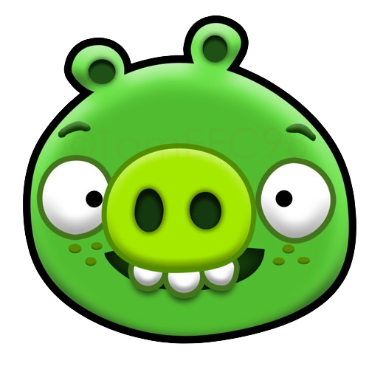
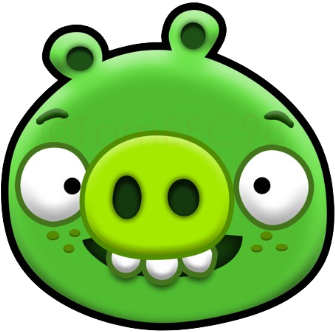
adjusted pig sprite and world2 for playability

diff --git a/World2.java b/World2.java
@@ -32,25 +32,25 @@ public class World2 extends MyWorlds
         }
         */
         
-        addObject(new Pig(24),390,100);
-        addObject(new Pig(24),510,50);
+        addObject(new Pig(20),430,180);
+        addObject(new Pig(20),540,150);
         addObject(new Sling(),100,275);
         
         
         
         
-        addObject(new Rock(20),320,220);
-        addObject(new Rock(20),390,280);
-        addObject(new Rock(20),440,150);
-        addObject(new Rock(20),510,210);
+        addObject(new Rock(20),300,240);
+        addObject(new Rock(20),430,290);
+        addObject(new Rock(20),410,180);
+        addObject(new Rock(20),540,250);
            
         
         for(int i = 0; i<2;i++)
         {
-            addObject(new Wood(20),320,180-30*i);
-            addObject(new Wood(20),390,240-30*i);
-            addObject(new Wood(20),440,110-30*i);
-            addObject(new Wood(20),510,170-30*i);
+            addObject(new Wood(20),300,180-22*i);
+            addObject(new Wood(20),430,240-22*i);
+            addObject(new Wood(20),410,140-22*i);
+            addObject(new Wood(20),540,200-22*i);
         }
     }
     public void act()

diff --git a/Wood.java b/Wood.java
@@ -49,13 +49,13 @@ public class Wood extends Animate
         }
         impartForce();
     
-        velocityY += .1;
+        velocityY += .07;
         //speed += .1;
     
         if(getY() <= 288-(10*Math.sin(Math.abs(Math.toRadians(getRotation()))))&&!getBelow())
             setLocation(getX(),getY()+(int)Math.round(velocityY));
         else{
-            if(velocityY>5){
+            if(velocityY>3){
                 getWorld().removeObject(this);
                 return;
             }
